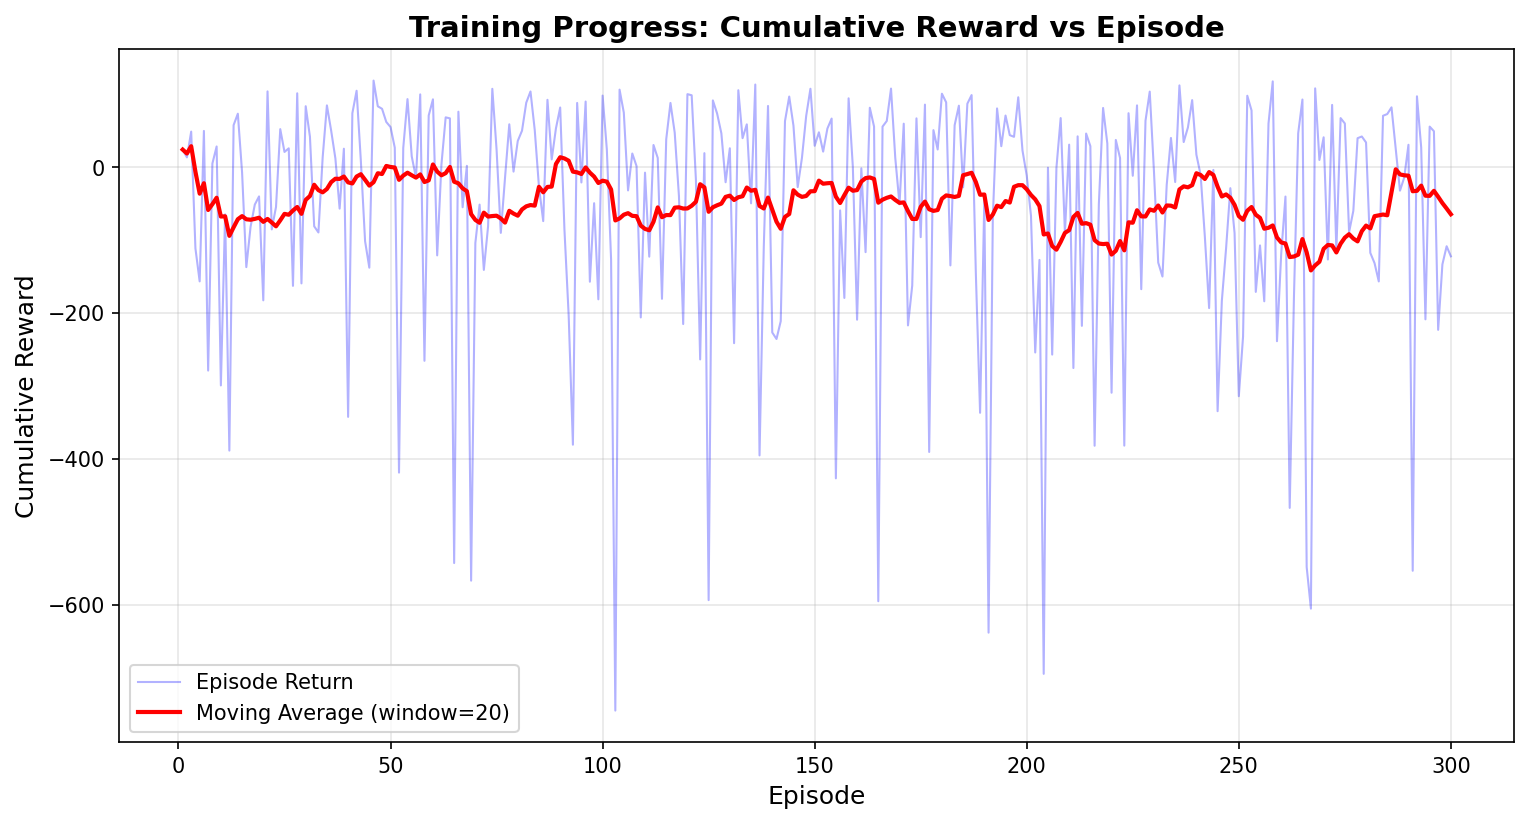
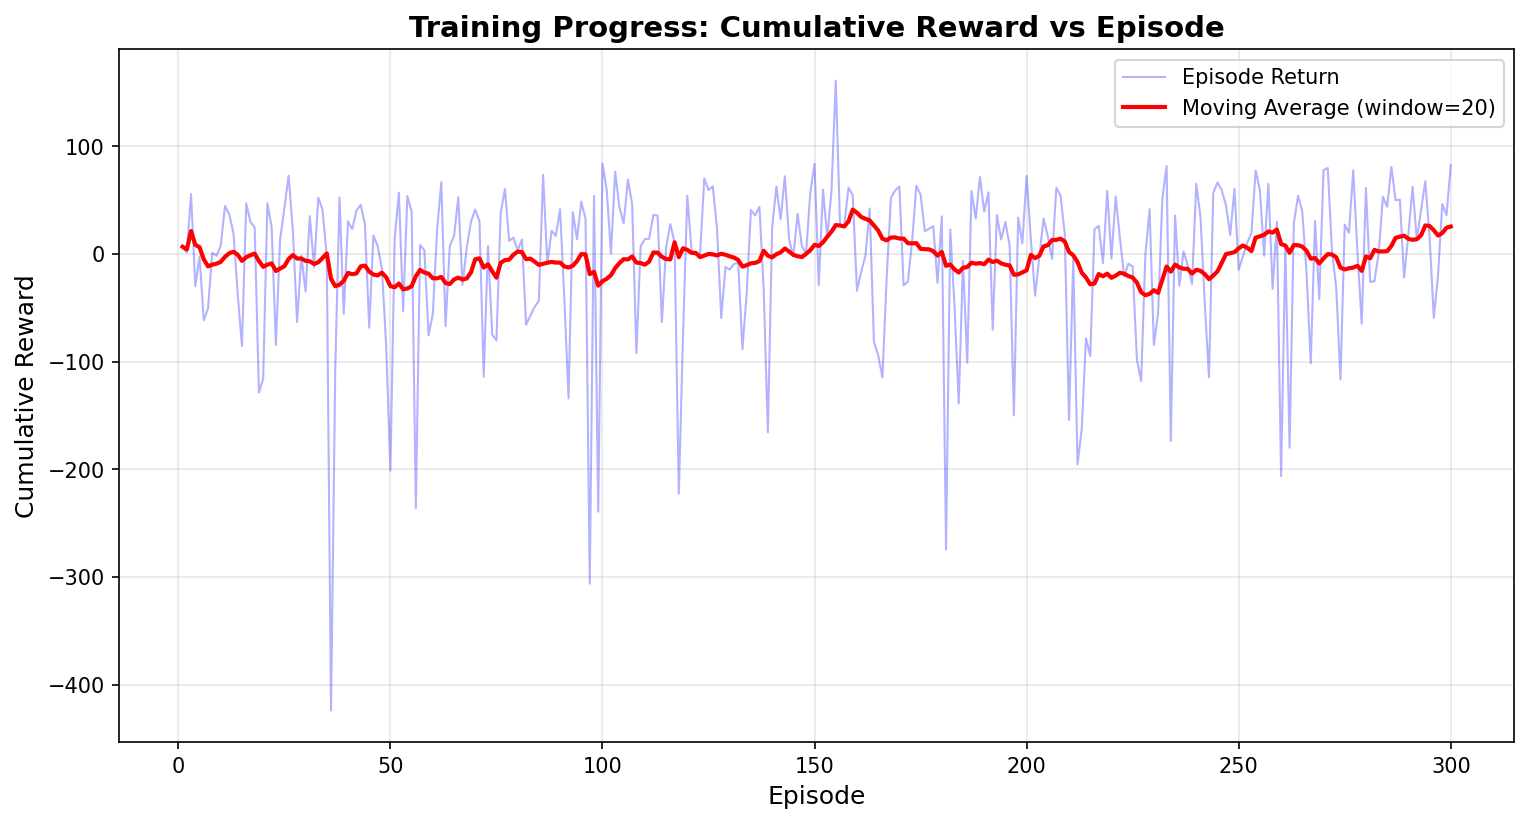
Modified model, state space, and more modafication trails in the training module

diff --git a/src/learning/train_theta_range.py b/src/learning/train_theta_range.py
@@ -2,6 +2,7 @@ import os
 import sys
 import math
 import random
+import json
 from collections import deque
 
 import numpy as np
@@ -18,18 +19,30 @@ from learning.rl_theta_net import ThetaQNet
 
 def extract_nav_features(sim) -> np.ndarray:
     """
-    Minimal feature vector from current simulation state.
+    Minimal feature vector from current simulation state with normalization.
     Uses the same quantities already computed in Robot.get_navigation_info.
     """
     nav = sim.robot.get_navigation_info(2)
     # waypoint(2), door_position(2), door_angle(1), linear_velocity(1), angular_velocity(1), closest_obstacle_distance(1)
     feat = []
-    feat.extend(list(nav['waypoint']))
-    feat.extend(list(nav['door_position']))
-    feat.append(float(nav['door_angle']))
-    feat.append(float(nav['linear_velocity']))
-    feat.append(float(nav['angular_velocity']))
-    feat.append(float(nav['closest_obstacle_distance']))
+    
+    # Normalize waypoint position (assuming corridor is ~10m long)
+    waypoint = np.array(nav['waypoint'])
+    feat.extend(list(waypoint / 10.0))
+    
+    # Normalize door position (assuming corridor is ~10m long)
+    door_pos = np.array(nav['door_position'])
+    feat.extend(list(door_pos / 10.0))
+    
+    # Normalize door angle to [-1, 1]
+    feat.append(float(nav['door_angle']) / np.pi)
+    
+    # Normalize velocities (assuming max ~2 m/s)
+    feat.append(float(nav['linear_velocity']) / 2.0)
+    feat.append(float(nav['angular_velocity']) / 2.0)
+    
+    # Normalize closest obstacle distance (assuming max sensing ~5m)
+    feat.append(float(nav['closest_obstacle_distance']) / 5.0)
     
     # Count people within velocity-based dynamic radius
     velocity_magnitude = np.linalg.norm(sim.robot.velocity)
@@ -40,9 +53,10 @@ def extract_nav_features(sim) -> np.ndarray:
             dist = np.linalg.norm(person.position - sim.robot.position)
             if dist <= sensing_radius:
                 num_people_nearby += 1
-    feat.append(float(num_people_nearby))
+    # Normalize by max expected people (e.g., 5)
+    feat.append(float(num_people_nearby) / 5.0)
     
-    # Forward proxemic cost from costmap
+    # Forward proxemic cost from costmap (already 0-1)
     forward_cost = get_forward_proxemic_cost(sim)
     feat.append(float(forward_cost))
     
@@ -304,9 +318,9 @@ def compute_reward(sim, progress_prev_dist: float) -> tuple[float, float, dict]:
     goal_pos = sim.robot.goal
     dist = float(np.linalg.norm(goal_pos - robot_pos))
 
-    # Progress reward: positive if moving towards goal
+    # Progress reward: scaled up to be more significant
     progress = (progress_prev_dist - dist)
-    reward = 1.0 * progress
+    reward = 5.0 * progress  # Increased from 1.0 to make progress more rewarding
 
     # Compute continuous person proxemic penetration
     max_penetration = 0.0
@@ -316,24 +330,24 @@ def compute_reward(sim, progress_prev_dist: float) -> tuple[float, float, dict]:
         penetration = compute_proxemic_penetration(sim, person)
         max_penetration = max(max_penetration, penetration)
     
-    # Graduated penalty for person proxemics (exponential)
+    # Graduated penalty for person proxemics (exponential) - reduced magnitude
     if max_penetration > 0.0:
-        reward += -2.0 * (max_penetration ** 1.5)
+        reward += -1.0 * (max_penetration ** 1.5)  # Reduced from -2.0
     else:
-        # Bonus for staying in free space
-        reward += 0.2
+        # Small bonus for staying in free space
+        reward += 0.05  # Reduced from 0.2 to avoid inflating rewards
     
     # Compute continuous door penetration
     door_penetration = compute_door_penetration(sim)
     
-    # Graduated penalty for door (exponential)
+    # Graduated penalty for door (exponential) - reduced
     if door_penetration > 0.0:
-        reward += -1.0 * (door_penetration ** 1.5)
+        reward += -0.5 * (door_penetration ** 1.5)  # Reduced from -1.0
 
-    # Time penalty (encourage faster navigation)
-    reward += -0.005
+    # Reduced time penalty to not dominate the reward signal
+    reward += -0.001  # Reduced from -0.005
 
-    # Collision penalty
+    # Collision penalty - reduced to be less catastrophic
     collisions = sim.collision_count
     info = {
         'distance': dist,
@@ -344,11 +358,19 @@ def compute_reward(sim, progress_prev_dist: float) -> tuple[float, float, dict]:
     # If a collision occurred in this step (heuristic: last history item within ~0.2s)
     if sim.collision_history:
         if abs(sim.collision_history[-1]['timestamp'] - __import__('datetime').datetime.now().timestamp()) < 0.2:
-            reward += -5.0
+            reward += -2.0  # Reduced from -5.0
 
-    # Goal bonus
+    # Graduated goal proximity reward to guide the agent
     if dist < 1.0:
-        reward += 25.0
+        reward += 50.0  # Increased from 25.0 - major success!
+    elif dist < 2.0:
+        reward += 10.0  # New: intermediate reward for getting close
+    elif dist < 3.0:
+        reward += 5.0   # New: smaller reward for approaching
+    
+    # Additional penalty for moving away from goal (negative progress)
+    if progress < -0.1:
+        reward += -1.0
 
     return reward, dist, info
 
@@ -422,13 +444,13 @@ def main():
     qnet = ThetaQNet(input_dim, num_actions)
     target_qnet = ThetaQNet(input_dim, num_actions)
     target_qnet.load_state_dict(qnet.state_dict())
-    optimizer = optim.Adam(qnet.parameters(), lr=1e-3)
+    optimizer = optim.Adam(qnet.parameters(), lr=5e-5)  # Reduced from 1e-3 for stability
 
     gamma = 0.99
     tau = 0.01
     epsilon_start = 1.0
     epsilon_end = 0.05
-    epsilon_decay_steps = 10_000
+    epsilon_decay_steps = 100_000  # Increased from 10k to allow more exploration
     batch_size = 64
     buffer = deque(maxlen=50_000)
 
@@ -470,16 +492,19 @@ def main():
         loss = nn.functional.mse_loss(q, target)
         optimizer.zero_grad()
         loss.backward()
+        # Gradient clipping for stability
+        torch.nn.utils.clip_grad_norm_(qnet.parameters(), max_norm=10.0)
         optimizer.step()
         soft_update()
         return {'loss': float(loss.item())}
 
     # Training loop (episodes of the headless simulation)
-    episodes = 300
+    episodes = 80
     max_steps = 800
     dt = 1/60.0
     global_step = 0
     episode_returns = []  # Track cumulative rewards for plotting
+    warmup_steps = 1000  # Fill buffer before training starts
 
     for ep in range(episodes):
         sim = Simulation(corridor_width=4.0, door_side='right', num_people=3,
@@ -514,7 +539,10 @@ def main():
 
             # Reward
             reward, prev_dist, info = compute_reward(sim, prev_dist)
-            episode_return += reward
+            
+            # Clip reward to prevent extreme outliers from destabilizing learning
+            reward_clipped = np.clip(reward, -10.0, 50.0)
+            episode_return += reward  # Track unclipped for monitoring
             
             # Track max penetration values
             max_person_pen = max(max_person_pen, info['max_person_penetration'])
@@ -523,11 +551,14 @@ def main():
             # Next features
             next_feat = extract_nav_features(sim)
 
-            # Store transition
-            buffer.append((state_feat, action_idx, reward, next_feat, float(done_flag)))
+            # Store transition with clipped reward
+            buffer.append((state_feat, action_idx, reward_clipped, next_feat, float(done_flag)))
 
-            # Learn
-            metrics = optimize()
+            # Learn (only after warmup period)
+            if global_step >= warmup_steps:
+                metrics = optimize()
+            else:
+                metrics = {}
 
             global_step += 1
             if done_flag:
@@ -549,6 +580,29 @@ def main():
     os.makedirs('checkpoints', exist_ok=True)
     torch.save(qnet.state_dict(), os.path.join('checkpoints', 'theta_qnet.pt'))
     print('Saved model to checkpoints/theta_qnet.pt')
+    
+    # Save hyperparameters
+    hyperparams = {
+        'learning_rate': 5e-5,
+        'gamma': gamma,
+        'tau': tau,
+        'epsilon_start': epsilon_start,
+        'epsilon_end': epsilon_end,
+        'epsilon_decay_steps': epsilon_decay_steps,
+        'batch_size': batch_size,
+        'buffer_size': 50_000,
+        'hidden_dim': 256,
+        'episodes': episodes,
+        'max_steps_per_episode': max_steps,
+        'warmup_steps': warmup_steps,
+        'reward_clip_range': [-10.0, 50.0],
+        'gradient_clip_norm': 10.0,
+        'theta_actions_degrees': [10, 20, 30, 45],
+        'feature_normalization': True,
+    }
+    with open(os.path.join('checkpoints', 'hyperparameters.json'), 'w') as f:
+        json.dump(hyperparams, f, indent=2)
+    print('Saved hyperparameters to checkpoints/hyperparameters.json')
 
 
 if __name__ == '__main__':

diff --git a/src/learning/test_theta_eval.py b/src/learning/test_theta_eval.py
@@ -39,19 +39,31 @@ def get_forward_proxemic_cost(sim) -> float:
 
 def extract_nav_features(sim) -> np.ndarray:
     """
-    Minimal feature vector from current simulation state.
+    Minimal feature vector from current simulation state with normalization.
     Uses the same quantities already computed in Robot.get_navigation_info.
     Must match the training script feature extraction exactly.
     """
     nav = sim.robot.get_navigation_info(2)
     # waypoint(2), door_position(2), door_angle(1), linear_velocity(1), angular_velocity(1), closest_obstacle_distance(1)
     feat = []
-    feat.extend(list(nav['waypoint']))
-    feat.extend(list(nav['door_position']))
-    feat.append(float(nav['door_angle']))
-    feat.append(float(nav['linear_velocity']))
-    feat.append(float(nav['angular_velocity']))
-    feat.append(float(nav['closest_obstacle_distance']))
+    
+    # Normalize waypoint position (assuming corridor is ~10m long)
+    waypoint = np.array(nav['waypoint'])
+    feat.extend(list(waypoint / 10.0))
+    
+    # Normalize door position (assuming corridor is ~10m long)
+    door_pos = np.array(nav['door_position'])
+    feat.extend(list(door_pos / 10.0))
+    
+    # Normalize door angle to [-1, 1]
+    feat.append(float(nav['door_angle']) / np.pi)
+    
+    # Normalize velocities (assuming max ~2 m/s)
+    feat.append(float(nav['linear_velocity']) / 2.0)
+    feat.append(float(nav['angular_velocity']) / 2.0)
+    
+    # Normalize closest obstacle distance (assuming max sensing ~5m)
+    feat.append(float(nav['closest_obstacle_distance']) / 5.0)
     
     # Count people within velocity-based dynamic radius
     velocity_magnitude = np.linalg.norm(sim.robot.velocity)
@@ -62,9 +74,10 @@ def extract_nav_features(sim) -> np.ndarray:
             dist = np.linalg.norm(person.position - sim.robot.position)
             if dist <= sensing_radius:
                 num_people_nearby += 1
-    feat.append(float(num_people_nearby))
+    # Normalize by max expected people (e.g., 5)
+    feat.append(float(num_people_nearby) / 5.0)
     
-    # Forward proxemic cost from costmap
+    # Forward proxemic cost from costmap (already 0-1)
     forward_cost = get_forward_proxemic_cost(sim)
     feat.append(float(forward_cost))
     
@@ -74,7 +87,8 @@ def extract_nav_features(sim) -> np.ndarray:
 def load_model(model_path, device='cpu'):
     input_dim = 10  # 8 original + num_people_nearby + forward_proxemic_cost
     num_actions = 4  # must match training script
-    net = ThetaQNet(input_dim, num_actions)
+    hidden_dim = 256  # Updated to match training (was 128)
+    net = ThetaQNet(input_dim, num_actions, hidden=hidden_dim)
     state = torch.load(model_path, map_location=device)
     net.load_state_dict(state)
     net.eval()

diff --git a/src/learning/rl_theta_net.py b/src/learning/rl_theta_net.py
@@ -4,17 +4,21 @@ import torch.nn as nn
 
 class ThetaQNet(nn.Module):
     """
-    Minimal MLP that maps a small navigation feature vector to Q-values
-    over discrete theta_range choices.
+    Deeper MLP that maps a small navigation feature vector to Q-values
+    over discrete theta_range choices with improved capacity.
     """
-    def __init__(self, input_dim: int, num_actions: int, hidden: int = 128):
+    def __init__(self, input_dim: int, num_actions: int, hidden: int = 256):
         super().__init__()
         self.net = nn.Sequential(
             nn.Linear(input_dim, hidden),
+            nn.LayerNorm(hidden),  # Add normalization for stability
             nn.ReLU(),
             nn.Linear(hidden, hidden),
+            nn.LayerNorm(hidden),
             nn.ReLU(),
-            nn.Linear(hidden, num_actions),
+            nn.Linear(hidden, hidden // 2),
+            nn.ReLU(),
+            nn.Linear(hidden // 2, num_actions),
         )
 
     def forward(self, x: torch.Tensor) -> torch.Tensor: